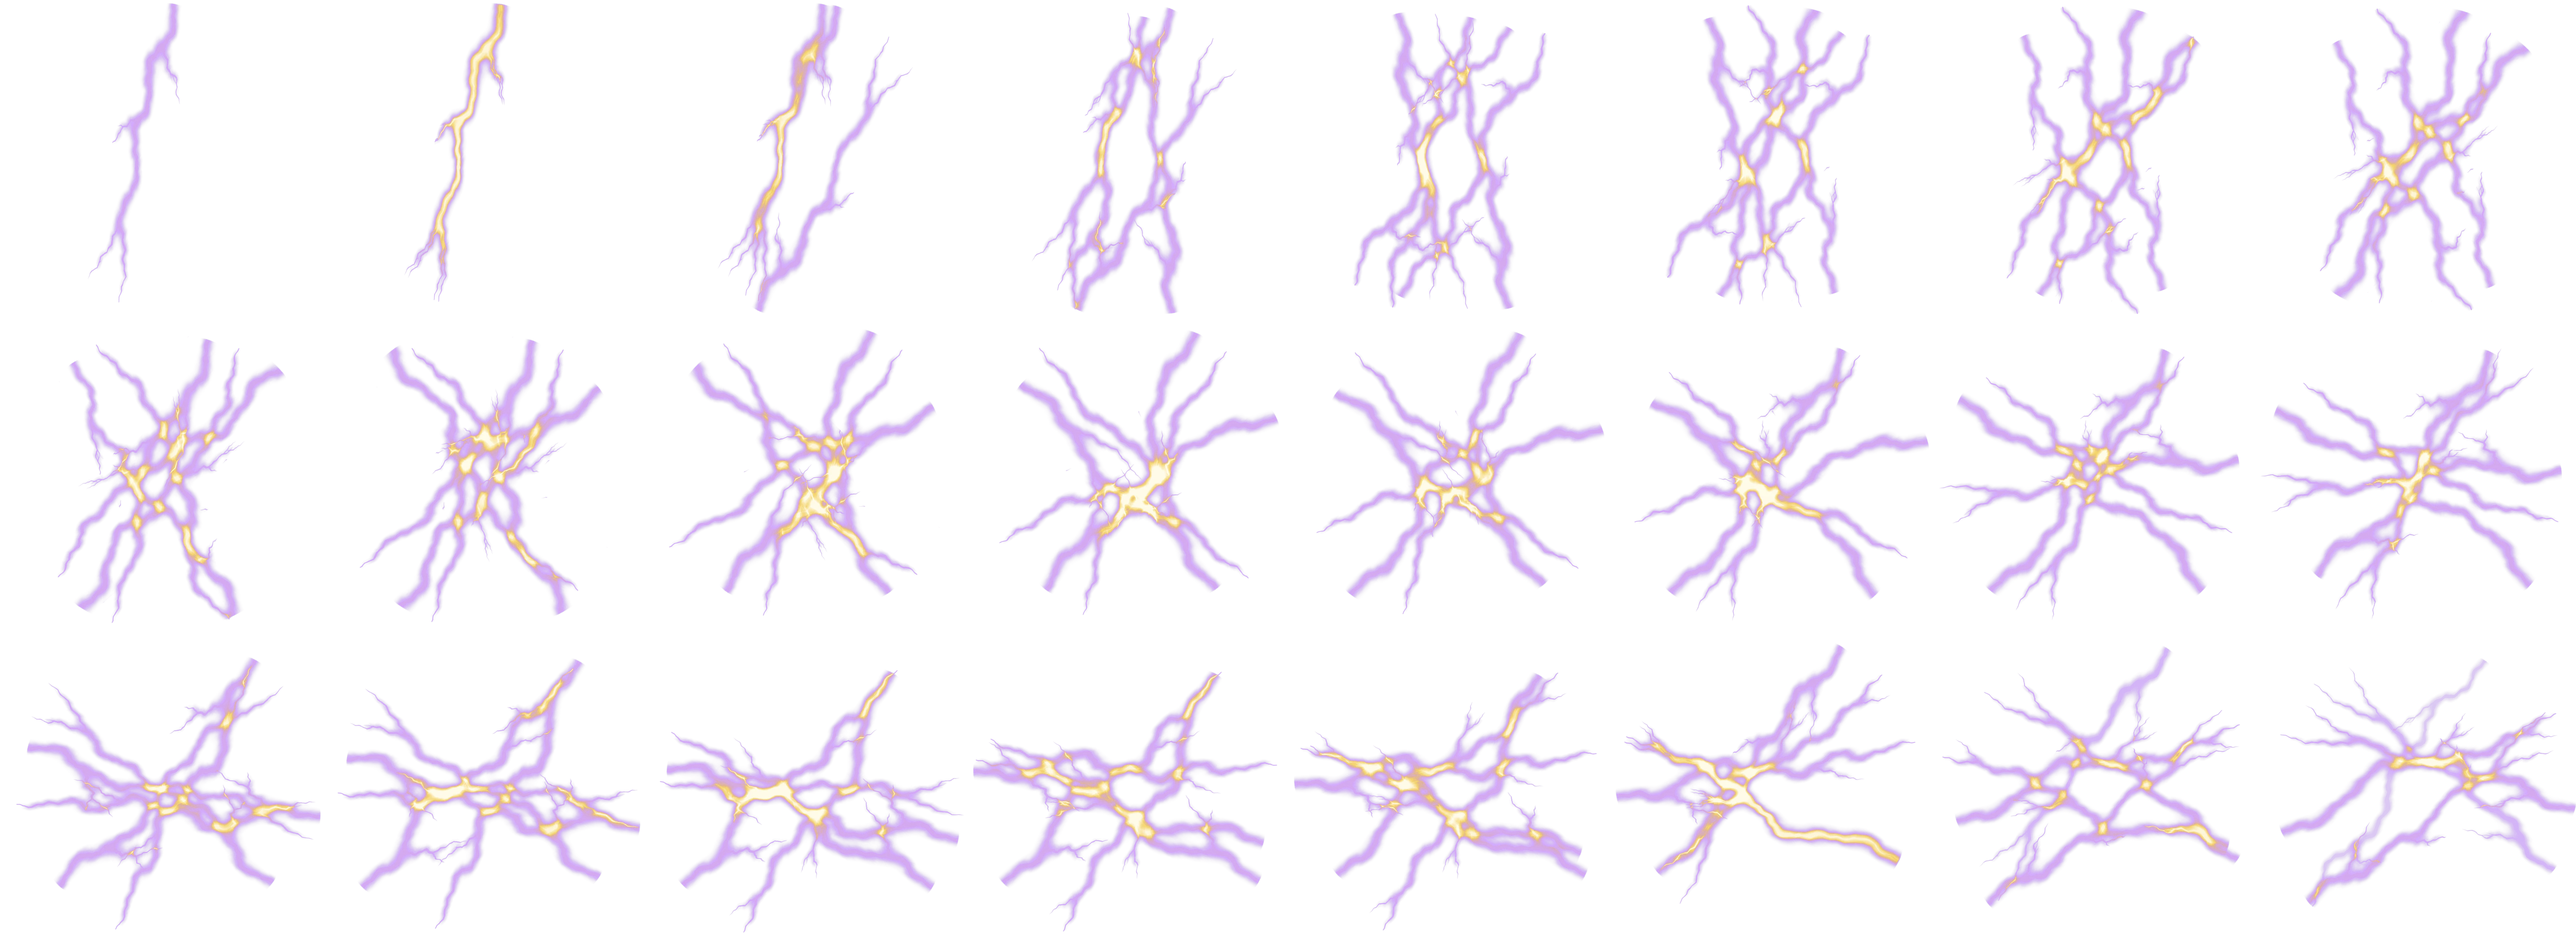
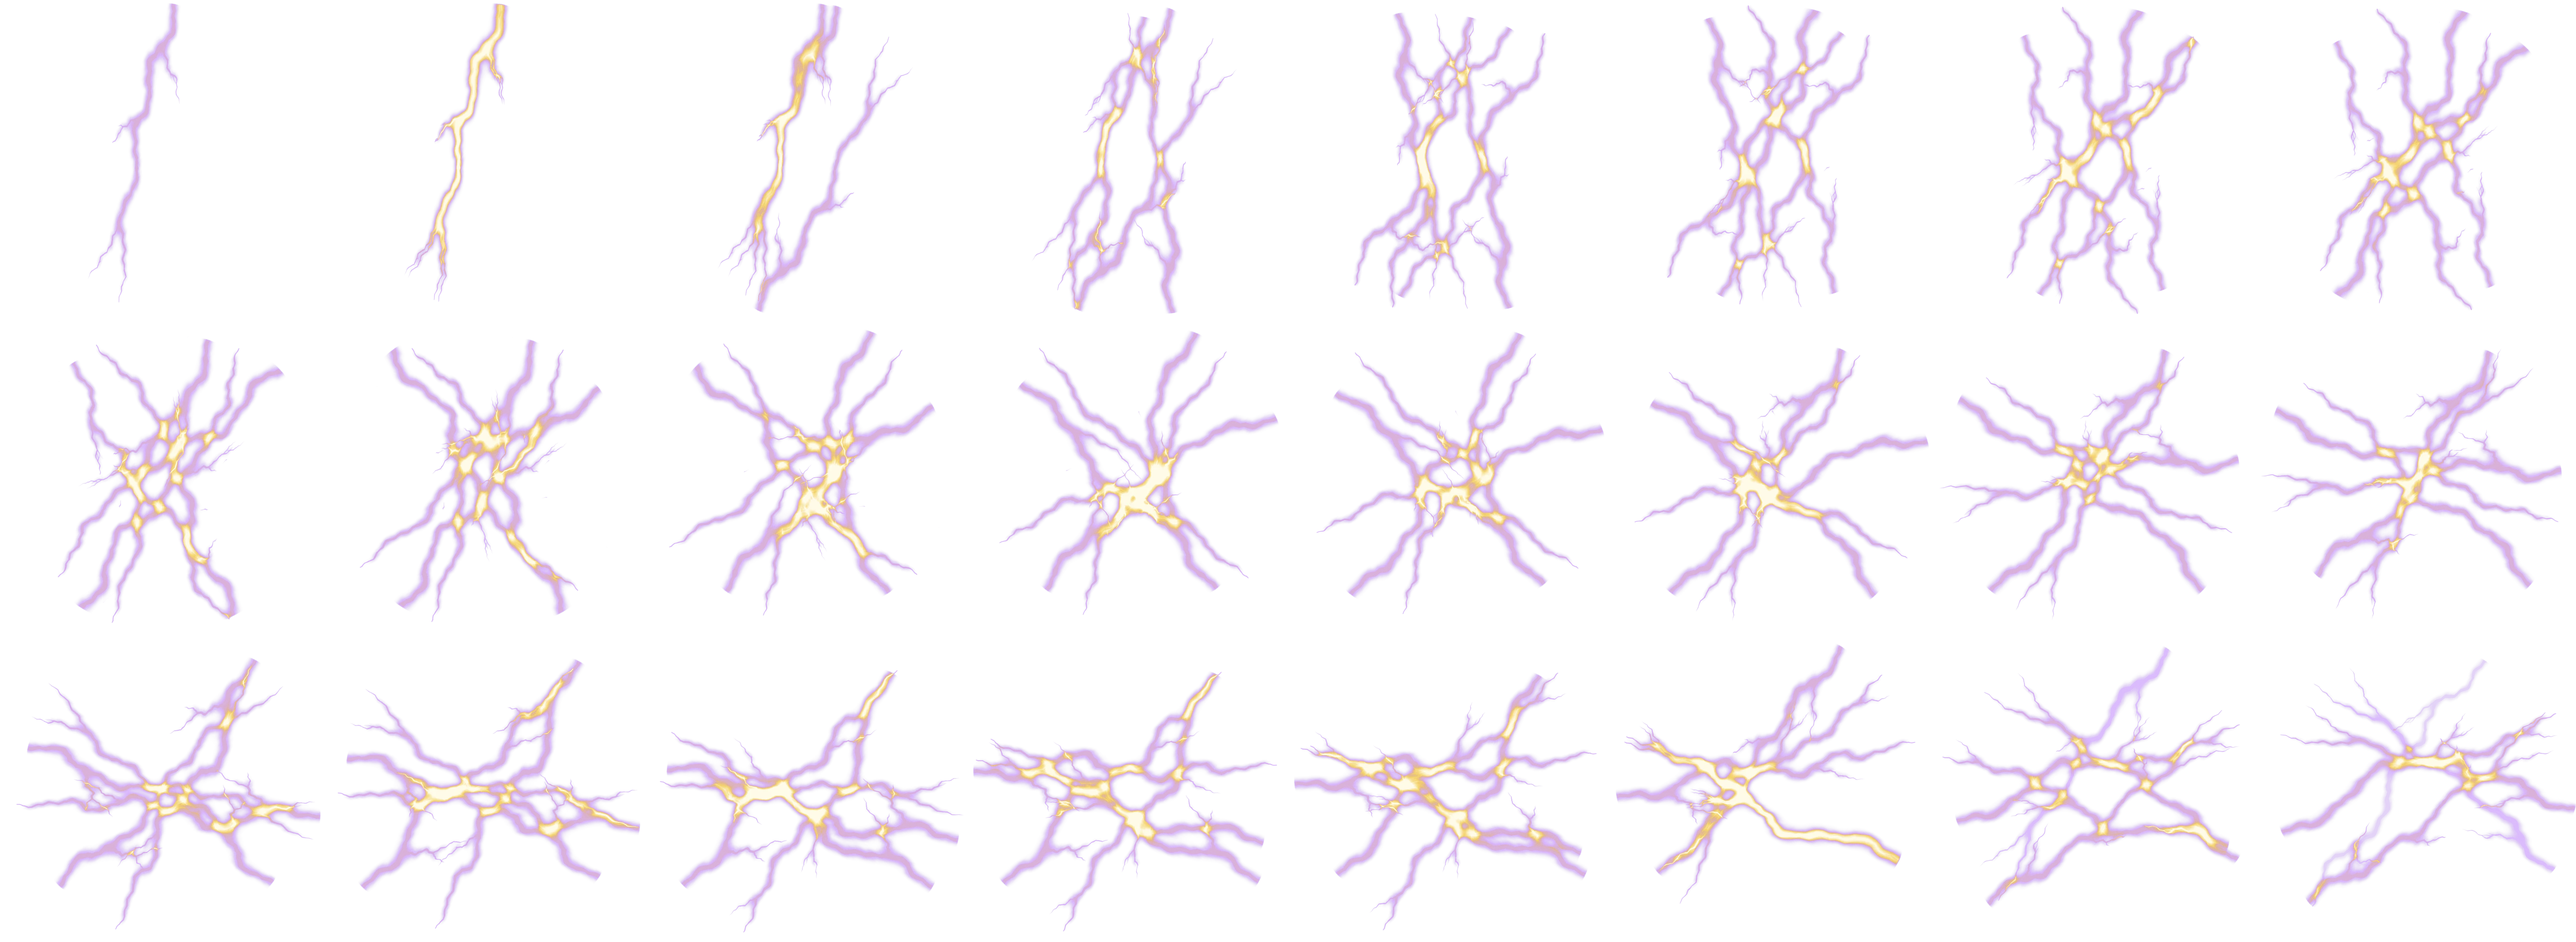
Zhang Jiao lightning halo fainter still

diff --git a/工具/effekseer/boss_fx.py b/工具/effekseer/boss_fx.py
@@ -21,9 +21,9 @@ RAMPS = {                                                                      #
     'lvbu':      ['#3a0410', '#a4142c', '#e0304a', '#ff8a5a', '#fff0e8'],
 }
 
-GAIN = {'huaxiong': .45, 'lvbu': .8, 'dengmao': 1.25, 'lijue': .5, 'zhangjiao': 1.3}                         # 亮度倍数：火墙一整排叠起来会冲成一块白，压一压；邓茂的太淡，提一点
+GAIN = {'huaxiong': .45, 'lvbu': .8, 'dengmao': 1.25, 'lijue': .5, 'zhangjiao': 1.45}                         # 亮度倍数：火墙一整排叠起来会冲成一块白，压一压；邓茂的太淡，提一点
 
-HALO = {'zhangjiao': 1.4}                                                      # 透明度的次方：越大外圈光晕越淡（10-27 用户：张角「其他都清晰，就这个模糊」——紫色光晕太厚）
+HALO = {'zhangjiao': 1.8}                                                      # 透明度的次方：越大外圈光晕越淡（10-27 用户：张角「其他都清晰，就这个模糊」——紫色光晕太厚）
 
 def ramp(name, L):
     cs = np.array([[int(c[i:i + 2], 16) for i in (1, 3, 5)] for c in RAMPS[name]], np.float32)
